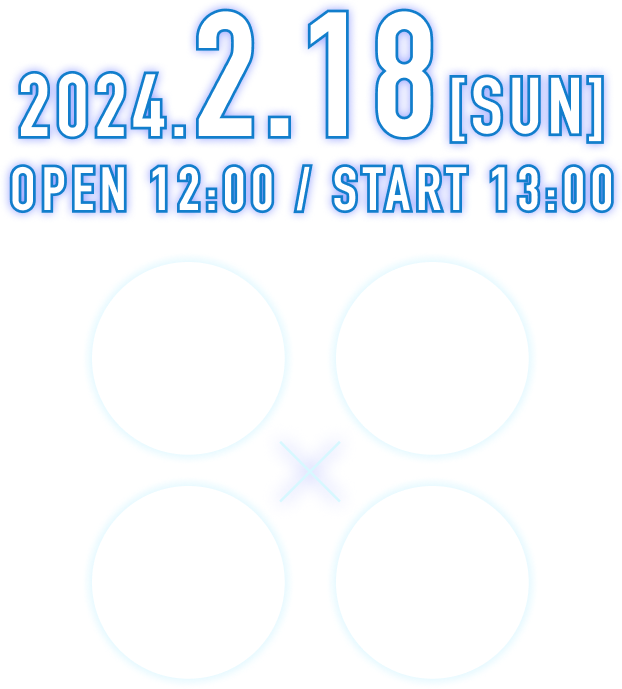
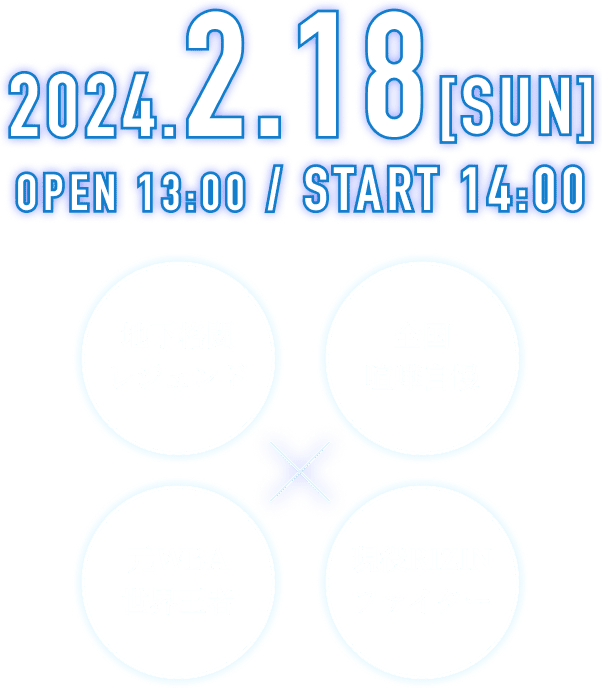
日付変こう

Changed region(s): [[0.0, 0.0, 1.0, 0.3353]]

diff --git a/breakingdown-11/bd11blue/index.html b/breakingdown-11/bd11blue/index.html
@@ -909,7 +909,7 @@
                             <img src="./images/bd_logo_v11.png" alt="BreakingDown11" class="logo-img" />
                         </picture>
                         <p class="day"><b>2024.2.18 SUN</b></p>
-                        <p class="time"><b>OPEN 12:00 / START 13:00</b></p>
+                        <p class="time"><b>OPEN 13:00 / START 14:00</b></p>
                         <div class="annotation">
                             <p>(予定)<br /><br />※終了予定時刻 21:00<br />※試合内容、イベント進行によって終了予定時間が前後することがありますのでご了承ください。</p>
                         </div>
@@ -921,7 +921,7 @@
                         <p>会場：プリズムホール（東京ドームシティ内）</p>
                         <p>主催：BreakingDown株式会社</p>
                         <p>冠協賛：拳極</p>
-                        <p>日時：2024年2月18日（日）13:00開始（予定）</p>
+                        <p>日時：2024年2月18日（日）14:00開始（予定）</p>
 
                         <h3>▼PPV</h3>
 

diff --git a/breakingdown-11/bd11red/index.html b/breakingdown-11/bd11red/index.html
@@ -963,7 +963,7 @@
                             <img src="./images/bd_logo_v11.png" alt="BreakingDown11" class="logo-img" />
                         </picture>
                         <p class="day"><b>2024.2.18 SUN</b></p>
-                        <p class="time"><b>OPEN 12:00 / START 13:00</b></p>
+                        <p class="time"><b>OPEN 13:00 / START 14:00</b></p>
                         <div class="annotation">
                             <p>(予定)<br /><br />※終了予定時刻 21:00<br />※試合内容、イベント進行によって終了予定時間が前後することがありますのでご了承ください。</p>
                         </div>
@@ -975,7 +975,7 @@
                         <p>会場：プリズムホール（東京ドームシティ内）</p>
                         <p>主催：BreakingDown株式会社</p>
                         <p>冠協賛：拳極</p>
-                        <p>日時：2024年2月18日（日）13:00開始（予定）</p>
+                        <p>日時：2024年2月18日（日）14:00開始（予定）</p>
 
                         <h3>▼PPV</h3>
 
